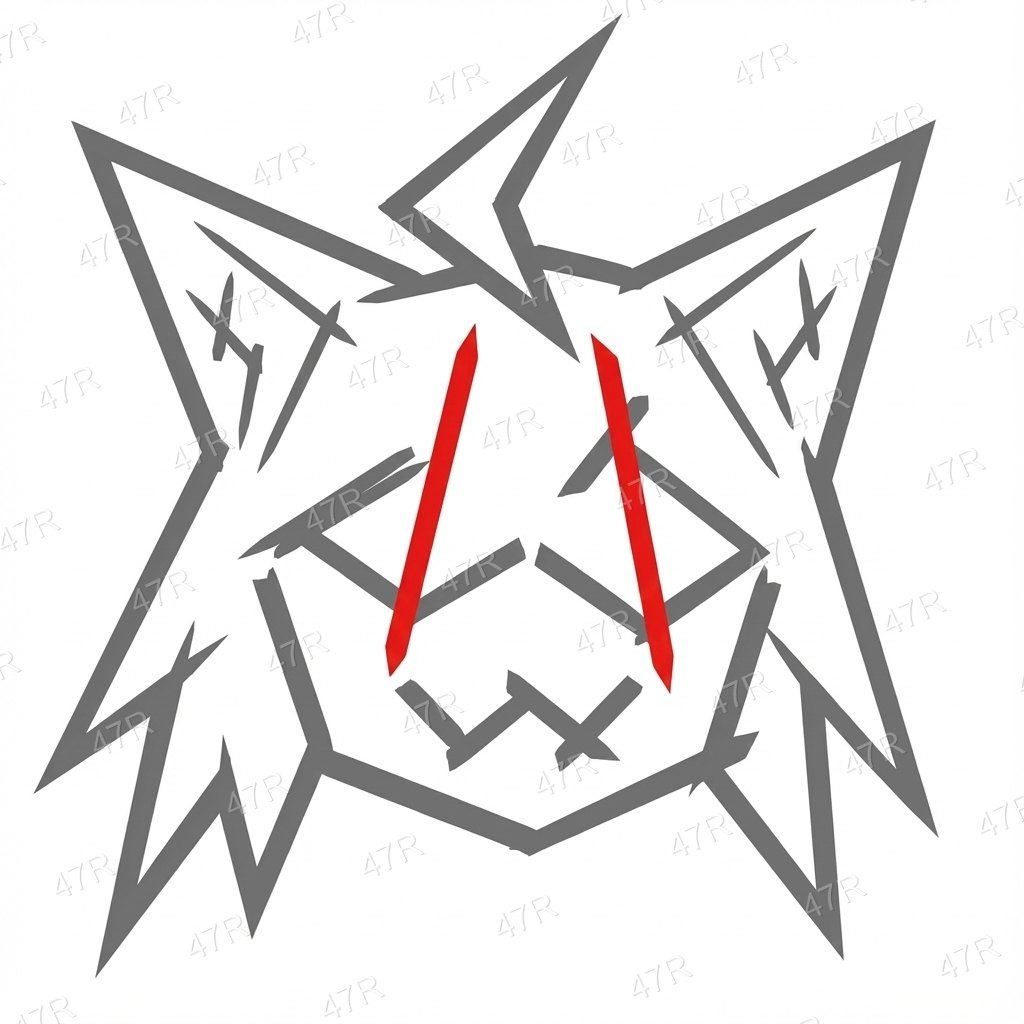
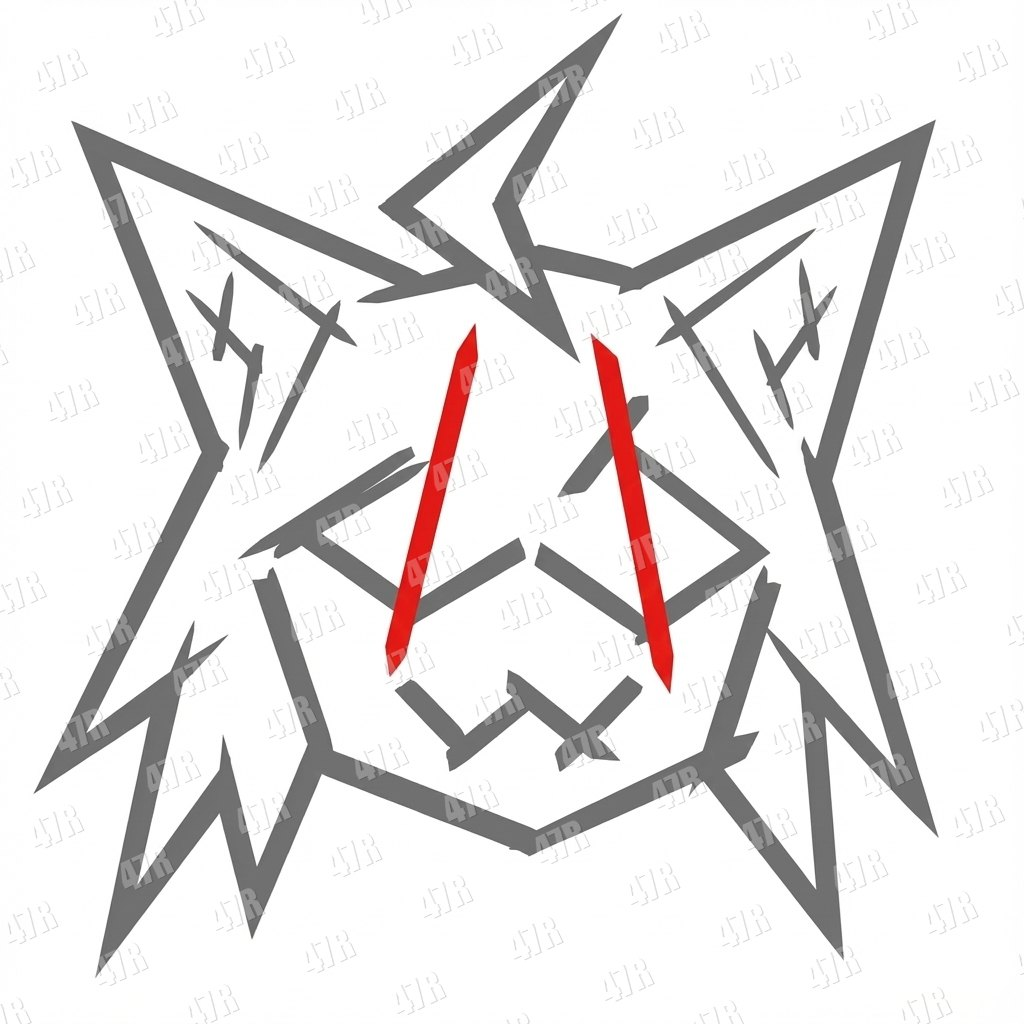
feat: genuine pixel-art eyes, denser impact watermark, untrack decisions log, add 3 new artworks

diff --git a/css/style.css b/css/style.css
@@ -238,96 +238,99 @@
   pointer-events: none;
 }
 
-/* Authentic Big Oval Neco Arc Eyes */
-.wallpaper-eyes {
+/* Authentic Melty Blood Pixel-Art Eyes */
+.wallpaper-pixel-eyes {
   position: absolute;
   inset: 0;
   pointer-events: none;
   z-index: 5;
+  image-rendering: pixelated;
+  image-rendering: -moz-crisp-edges;
+  image-rendering: crisp-edges;
 }
 
-.wallpaper-eye {
+.pixel-eye {
   position: absolute;
-  background: #ffffff;
-  border: 3px solid #141414;
-  border-radius: 50% 50% 48% 48% / 55% 55% 45% 45%;
-  box-shadow: 
-    0 0 15px rgba(255, 255, 255, 0.45),
-    inset 0 0 5px rgba(0, 0, 0, 0.2);
   overflow: hidden;
-  transform-origin: center;
-  transition: transform 0.08s ease, filter 0.2s ease, box-shadow 0.2s ease;
+  transform-origin: center bottom;
+  transition: transform 0.08s ease;
   z-index: 6;
+  image-rendering: pixelated;
+  image-rendering: -moz-crisp-edges;
+  image-rendering: crisp-edges;
 }
 
-.wallpaper-eye.eye-left {
-  left: 39.0%;
-  top: 29.4%;
-  width: 9.8%;
-  height: 13.8%;
-  transform: rotate(-1.5deg);
+.pixel-eye.eye-left {
+  left: 38.96%;
+  top: 29.30%;
+  width: 9.58%;
+  height: 15.23%;
 }
 
-.wallpaper-eye.eye-right {
-  left: 49.0%;
-  top: 29.4%;
-  width: 10.4%;
-  height: 13.8%;
-  transform: rotate(1.5deg);
+.pixel-eye.eye-right {
+  left: 48.54%;
+  top: 28.38%;
+  width: 12.60%;
+  height: 16.14%;
 }
 
-.wallpaper-pupil {
+.pixel-eye-bg {
   position: absolute;
-  top: 50%;
-  left: 50%;
-  width: 44%;
-  height: 82%;
-  background: radial-gradient(ellipse at 42% 35%, #eb001e 0%, #aa0015 60%, #4a0006 100%);
-  border: 2px solid #220004;
-  border-radius: 50% / 40% 40% 60% 60%;
-  transform: translate(-50%, -50%);
-  box-shadow: 0 0 10px rgba(235, 0, 30, 0.7);
-  transition: transform 0.05s linear;
+  inset: 0;
+  width: 100%;
+  height: 100%;
+  object-fit: fill;
+  image-rendering: pixelated;
+  image-rendering: -moz-crisp-edges;
+  image-rendering: crisp-edges;
+  pointer-events: none;
 }
 
-.wallpaper-pupil::after {
-  content: '';
+.pixel-pupil {
   position: absolute;
-  top: 18%;
-  left: 22%;
-  width: 24%;
-  height: 24%;
-  background: #ffffff;
-  border-radius: 50%;
-  opacity: 0.9;
-  box-shadow: 0 0 2px #ffffff;
+  image-rendering: pixelated;
+  image-rendering: -moz-crisp-edges;
+  image-rendering: crisp-edges;
+  pointer-events: none;
+  transition: transform 0.04s linear;
+}
+
+.pixel-eye.eye-left .pixel-pupil {
+  width: 31.5%;
+  height: 54.7%;
+  left: 38%;
+  top: 3%;
+}
+
+.pixel-eye.eye-right .pixel-pupil {
+  width: 24.0%;
+  height: 53.2%;
+  left: 37%;
+  top: 2%;
 }
 
 /* Blinking state */
-.wallpaper-eyes.blinking .wallpaper-eye {
-  transform: scaleY(0.06);
-  filter: brightness(1.8);
+.wallpaper-pixel-eyes.blinking .pixel-eye {
+  transform: scaleY(0.04);
 }
 
 /* Narrowing / Menacing state */
-.wallpaper-eyes.menacing .wallpaper-eye {
-  transform: scaleY(0.35) scaleX(1.1);
-  box-shadow: 0 0 22px #ff0033, 0 0 40px #ff0055, inset 0 0 6px #ffaaaa;
+.wallpaper-pixel-eyes.menacing .pixel-eye {
+  transform: scaleY(0.42);
+  filter: drop-shadow(0 0 6px #ff0033);
 }
 
 /* Music Pulsing */
-#desktop-wallpaper.is-playing .wallpaper-pupil {
-  animation: pupilMusicPulse 1.1s ease-in-out infinite alternate;
+#desktop-wallpaper.is-playing .pixel-pupil {
+  animation: pixelPupilMusicPulse 1.0s ease-in-out infinite alternate;
 }
 
-@keyframes pupilMusicPulse {
+@keyframes pixelPupilMusicPulse {
   0% {
-    box-shadow: 0 0 10px rgba(235, 0, 30, 0.7);
-    filter: brightness(1);
+    filter: drop-shadow(0 0 2px rgba(255, 0, 40, 0.5));
   }
   100% {
-    box-shadow: 0 0 22px rgba(255, 20, 60, 1), 0 0 35px rgba(255, 0, 80, 0.7);
-    filter: brightness(1.25);
+    filter: drop-shadow(0 0 8px rgba(255, 0, 40, 0.95)) brightness(1.2);
   }
 }
 

diff --git a/index.html b/index.html
@@ -58,12 +58,15 @@
       <div class="wallpaper-crt-lines"></div>
       <div class="wallpaper-neco-wrap" id="wallpaper-neco-wrap">
         <img src="assets/wallpaper/silhouette.png" alt="Neco Shadow" class="wallpaper-silhouette" id="wallpaper-silhouette" draggable="false">
-        <div class="wallpaper-eyes" id="wallpaper-eyes">
-          <div class="wallpaper-eye eye-left" id="eye-left">
-            <div class="wallpaper-pupil" id="pupil-left"></div>
+        <!-- Authentic Melty Blood Pixel-Art Eyes -->
+        <div class="wallpaper-pixel-eyes" id="wallpaper-eyes">
+          <div class="pixel-eye eye-left" id="eye-left">
+            <img src="assets/wallpaper/pixel_eye_left_bg.png" class="pixel-eye-bg" alt="" draggable="false">
+            <img src="assets/wallpaper/pixel_pupil_l.png" class="pixel-pupil" id="pupil-left" alt="" draggable="false">
           </div>
-          <div class="wallpaper-eye eye-right" id="eye-right">
-            <div class="wallpaper-pupil" id="pupil-right"></div>
+          <div class="pixel-eye eye-right" id="eye-right">
+            <img src="assets/wallpaper/pixel_eye_right_bg.png" class="pixel-eye-bg" alt="" draggable="false">
+            <img src="assets/wallpaper/pixel_pupil_r.png" class="pixel-pupil" id="pupil-right" alt="" draggable="false">
           </div>
         </div>
         <div class="wallpaper-glitch-bar" id="wallpaper-glitch-bar"></div>

diff --git a/js/wallpaper.js b/js/wallpaper.js
@@ -103,8 +103,13 @@ class WallpaperManager {
     const oxR = Math.cos(angleR) * moveR;
     const oyR = Math.sin(angleR) * moveR;
 
-    this.pupilLeft.style.transform = `translate(calc(-50% + ${oxL.toFixed(1)}px), calc(-50% + ${oyL.toFixed(1)}px))`;
-    this.pupilRight.style.transform = `translate(calc(-50% + ${oxR.toFixed(1)}px), calc(-50% + ${oyR.toFixed(1)}px))`;
+    const pxL = Math.round(oxL);
+    const pyL = Math.round(oyL);
+    const pxR = Math.round(oxR);
+    const pyR = Math.round(oyR);
+
+    this.pupilLeft.style.transform = `translate(${pxL}px, ${pyL}px)`;
+    this.pupilRight.style.transform = `translate(${pxR}px, ${pyR}px)`;
   }
 
   startBlinkLoop() {

diff --git a/js/boot.js b/js/boot.js
@@ -121,6 +121,10 @@ class BootManager {
 
     const allUrls = [
       { type: 'image', src: 'assets/wallpaper/silhouette.png' },
+      { type: 'image', src: 'assets/wallpaper/pixel_eye_left_bg.png' },
+      { type: 'image', src: 'assets/wallpaper/pixel_eye_right_bg.png' },
+      { type: 'image', src: 'assets/wallpaper/pixel_pupil_l.png' },
+      { type: 'image', src: 'assets/wallpaper/pixel_pupil_r.png' },
       ...frameList.map(src => ({ type: 'image', src })),
       ...audioList.map(src => ({ type: 'audio', src }))
     ];
